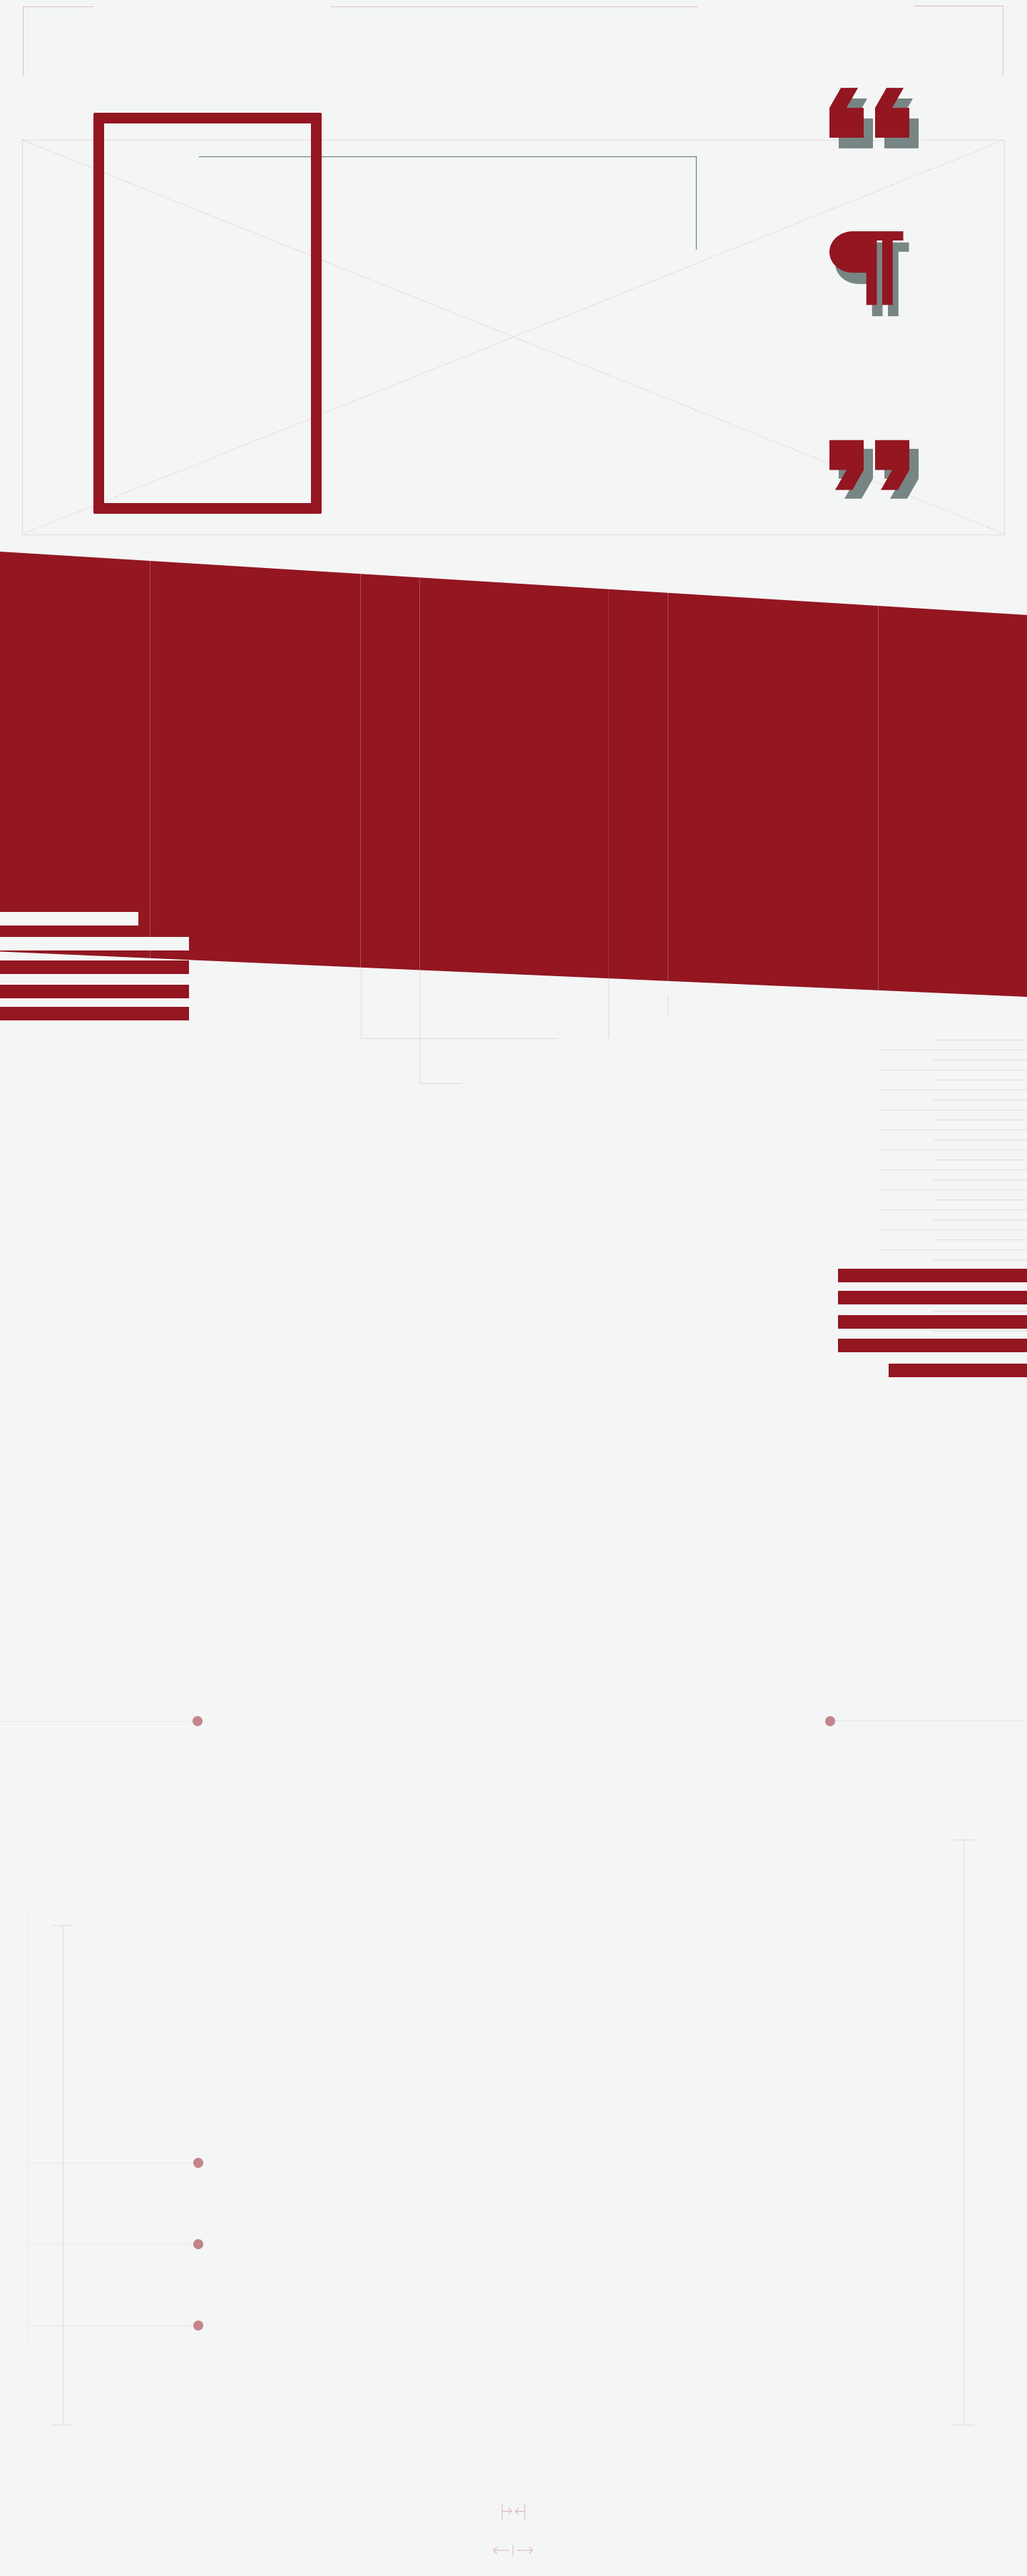
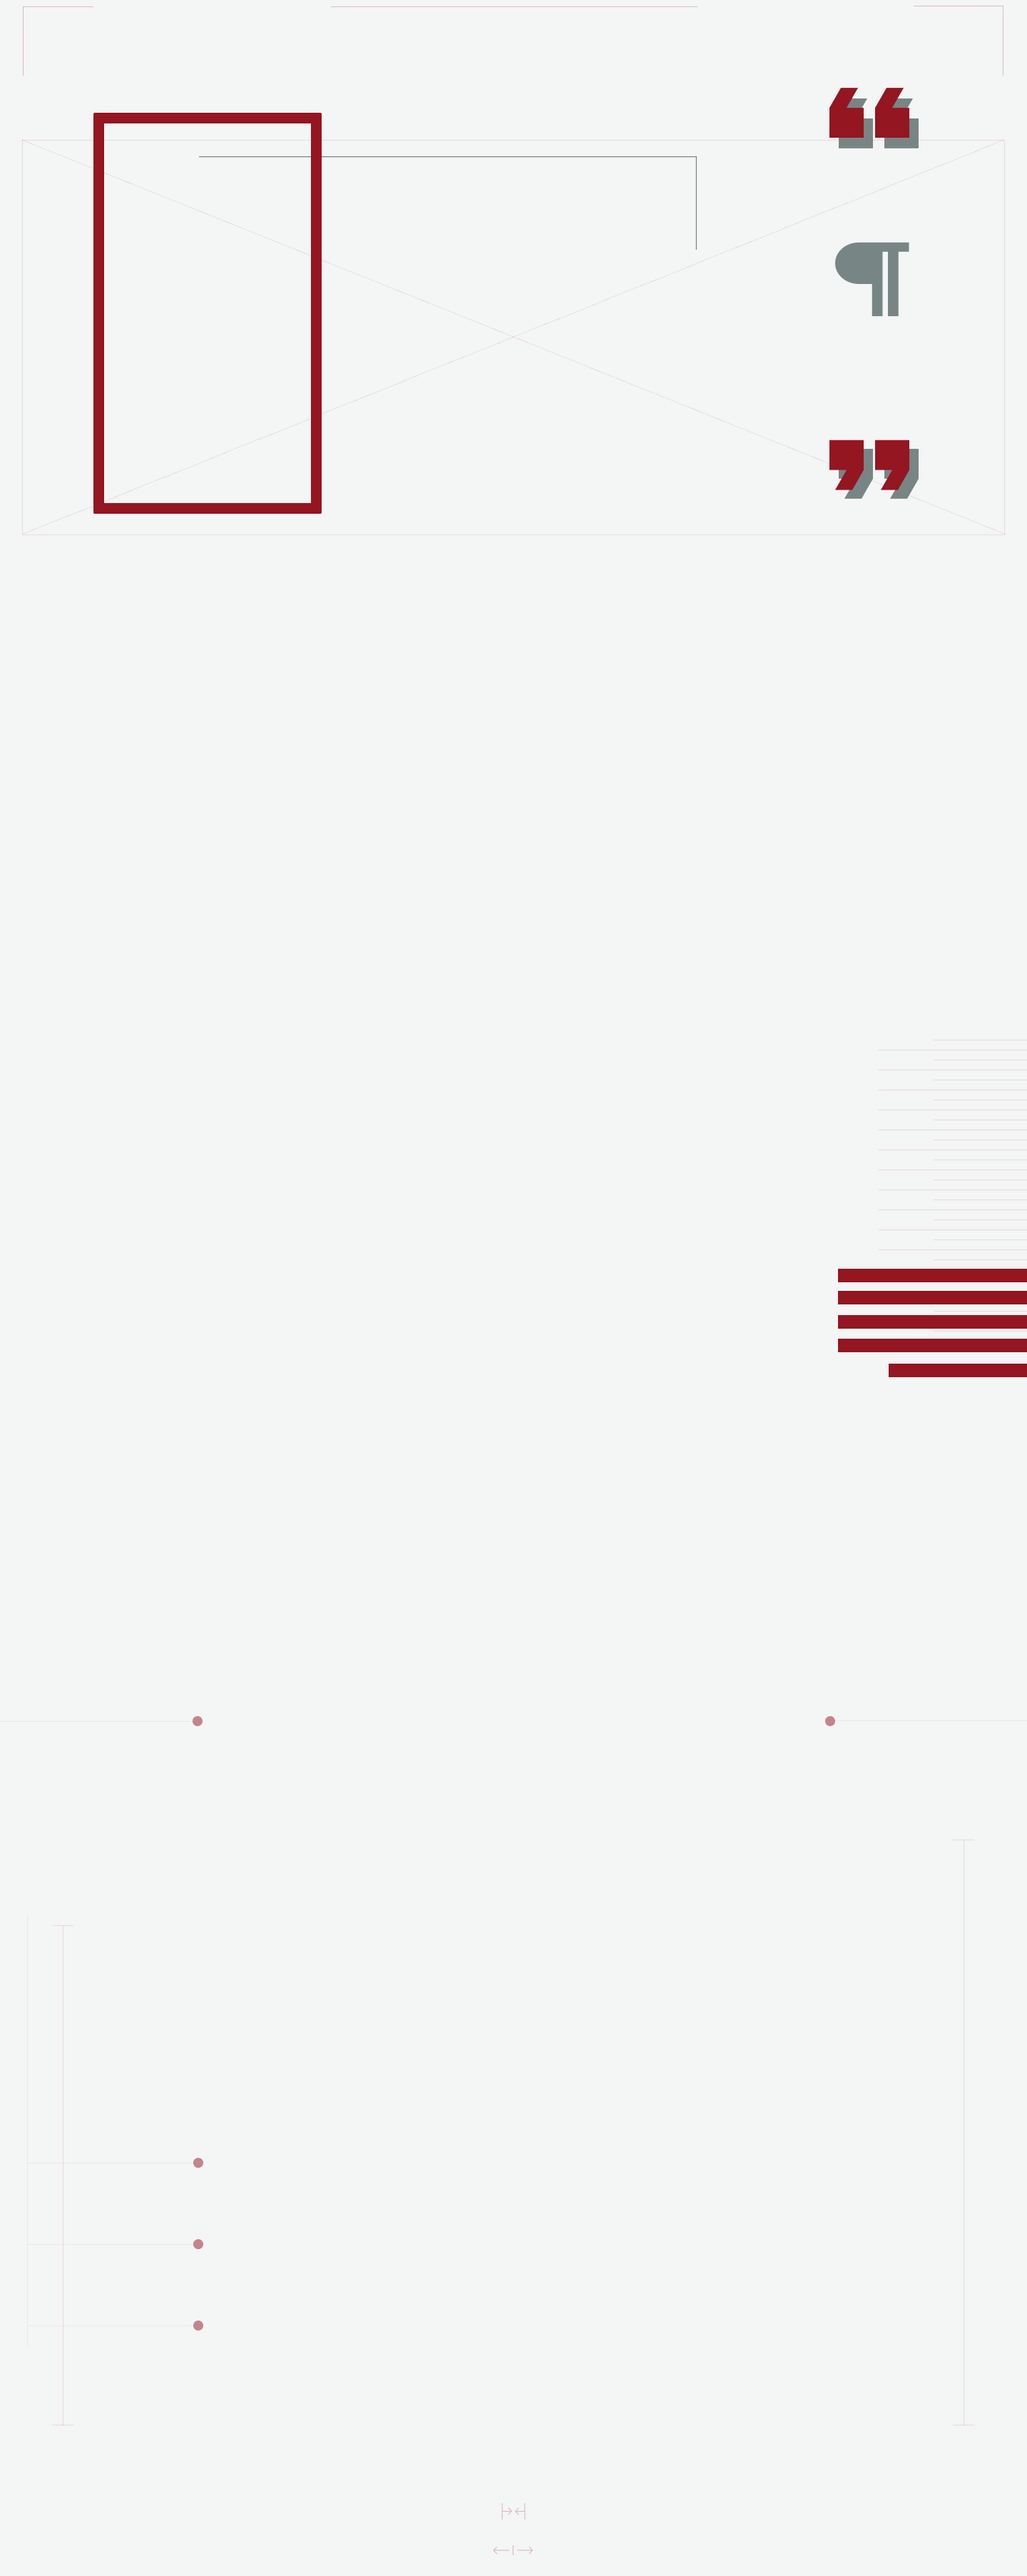
Services bg section on div

Changed region(s): [[0.0, 0.2172, 1.0, 0.4033], [0.8125, 0.062, 0.875, 0.1241]]

diff --git a/css/style.css b/css/style.css
@@ -102,14 +102,8 @@ a {
 }
 .Logo img {
   width: clamp(76px, 16vw, 109px); 
-  
 }
 
-/* @media screen and (max-width: 600px) {
-  .Logo img {
-    width: clamp(84px, 109px, 150px); 
-  }
-} */
 
 /*Menu in Navbar behavior*/
 
@@ -306,16 +300,22 @@ a {
 /* --------------- ---------------Services Section Behavior------------ ---------- */
 
   .Services {  
+    
     display: grid;
-    grid-template-columns: 1.2fr 1.2fr 1.2fr;
-    grid-template-rows: 0.2fr 1.8fr;
+    grid-template-columns: 1fr 1fr 1fr;
+    grid-template-rows: 0.2fr 0.8fr;
     gap: 0.5em;
-    margin-top: 14em;
     grid-auto-flow: row;
     grid-template-areas:
       "servicesTitle servicesTitle servicesTitle"
       "service1 service2 service3";
     grid-area: Services;
+
+    justify-content: center; 
+    align-content: center; 
+    justify-items: center; 
+    align-items: center; 
+    align-self: center; 
 
   }
 
@@ -330,6 +330,19 @@ a {
       justify-self: center;
     }
   }
+  .servicesBg{
+    background: url("../img/ServicesSection.png") no-repeat center;
+    background-size: cover;
+    padding-left: 10%;
+    margin-left: -10%;
+    padding-right: 10%;
+    margin-right: -10%;
+    padding-bottom: 28%;
+    margin-bottom: -28%;
+
+  }
+
+
   .serviceBox{
     text-align: center;
     color: var(--main-bg-color);
@@ -369,11 +382,19 @@ a {
     align-self: center;
     grid-area: service3;
   }
+  @media screen and (max-width: 600px) {
+    .service3 {
+      justify-self: center;
+      align-self: start;
+      grid-area: service3;
+    }
+  }
   
   .servicesTitle {
     justify-self: center;
     grid-area: servicesTitle;
     padding-bottom: 1em;
+    padding-top: 4em;
   }
   .servicesTitle h2{
     margin-bottom: -29px;

diff --git a/index.html b/index.html
@@ -55,7 +55,7 @@
           </div>
         </div>
       </div>
-      <div class="Services" id="Services">
+      <div class="Services servicesBg" id="Services">
         <div class="servicesTitle">
           <div class="servicesTitleBox">
             <h2>&nbsp&nbspServicios&nbsp&nbsp</h2>
